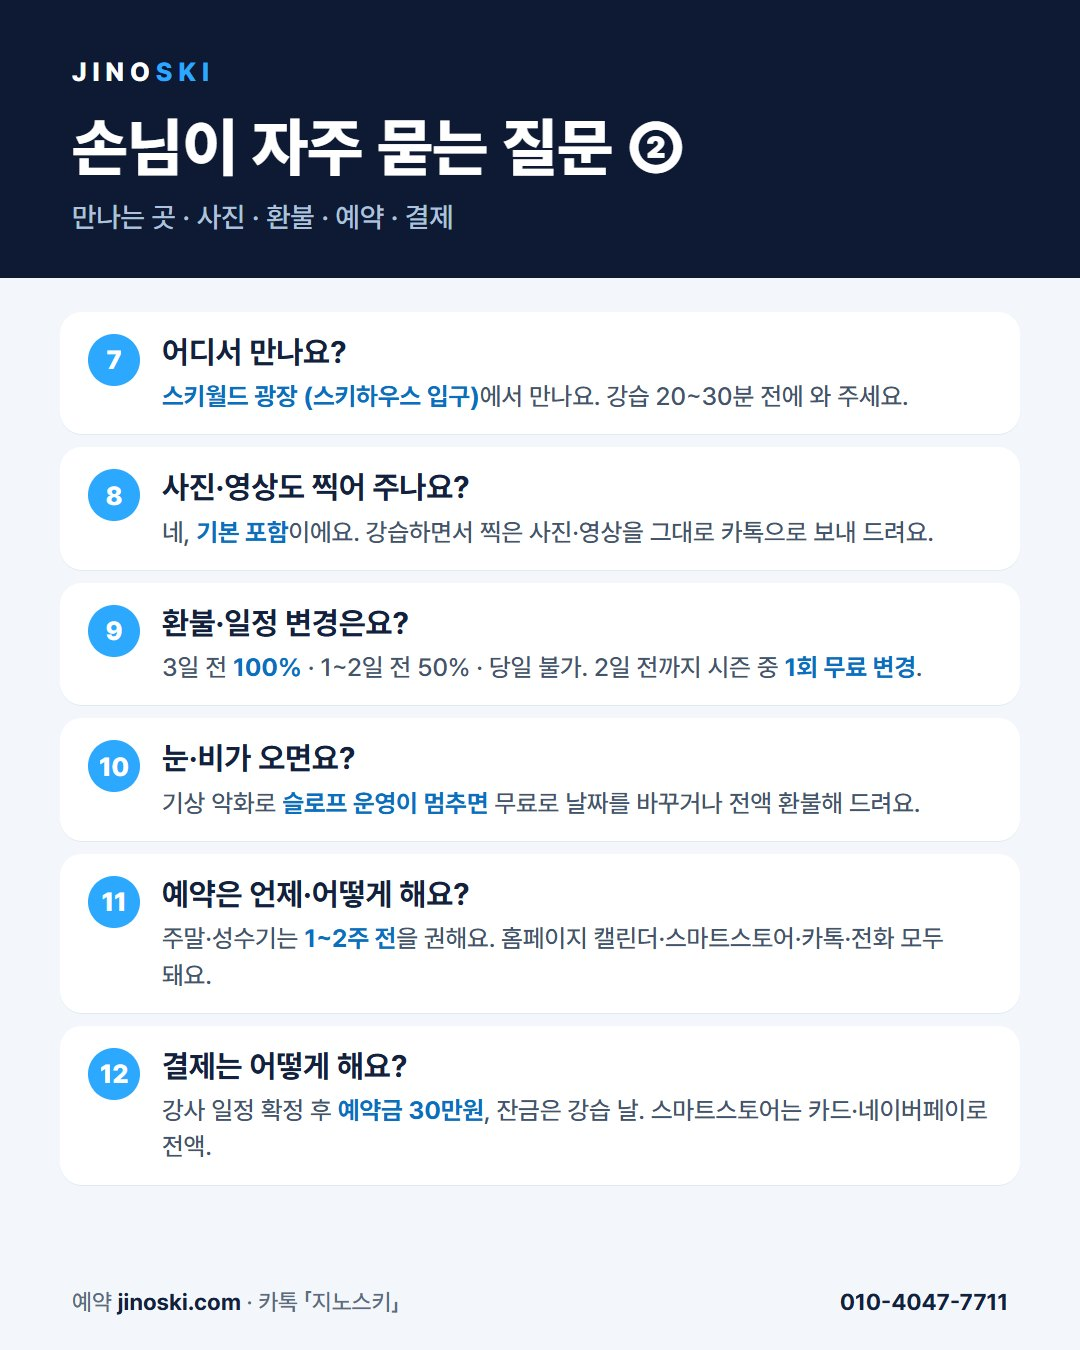
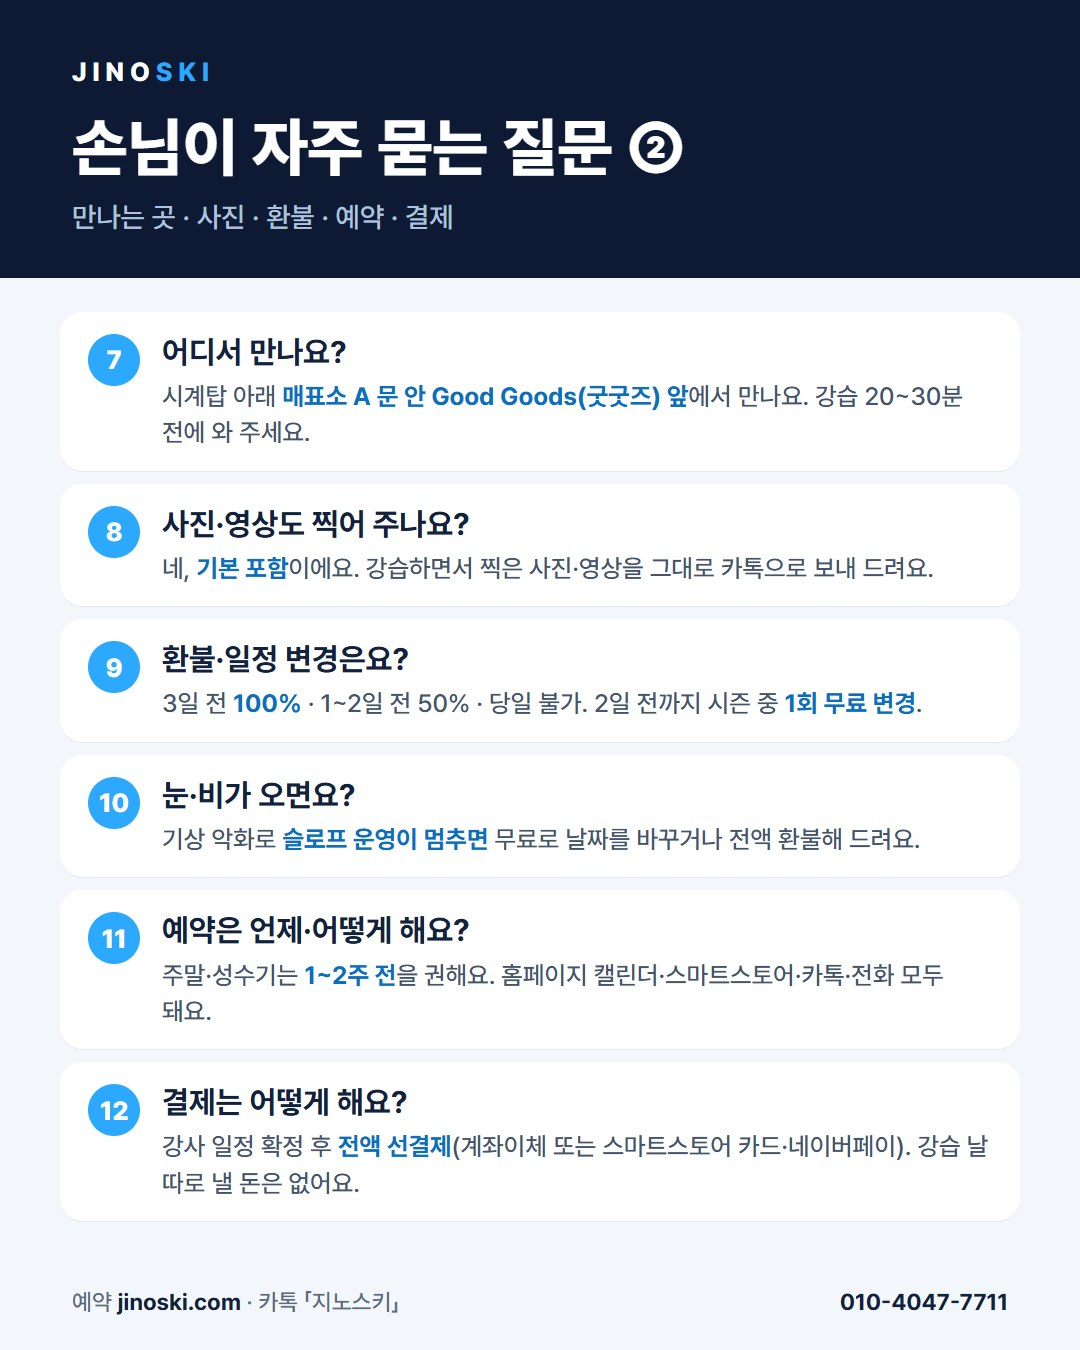
자주 묻는 질문 ② 이미지: 예약금 30만원 → 전액 선결제, 만나는 곳 Good Goods 앞

Changed region(s): [[0.0611, 0.28, 0.9167, 0.9022]]

diff --git a/src/components/shared/guide-cards.tsx b/src/components/shared/guide-cards.tsx
@@ -246,7 +246,7 @@ export const WHY_CARDS: GuideCard[] = [
 /** 자주 묻는 질문 화면 맨 위 */
 export const FAQ_CARDS: GuideCard[] = [
   { src: "/images/guide/why-1.jpg", alt: "자주 묻는 질문 1 — 처음 타도 괜찮은지, 유아는 4~7세 레슨, 2시간 1:1 14만·1:2 20만·1:3 24만원, 패찰은 비발디파크 외부강습 허가권(2시간 2.5만원), 리프트권·렌탈·식사는 별도, 장비는 현장 렌탈" },
-  { src: "/images/guide/why-2.jpg", alt: "자주 묻는 질문 2 — 스키월드 광장 스키하우스 입구에서 만남, 사진·영상 기본 포함, 환불 3일 전 100%·1~2일 전 50%·당일 불가, 기상 악화로 슬로프 운영이 멈추면 무료 변경·전액 환불, 주말은 1~2주 전 예약, 예약금 30만원·잔금 강습 날" },
+  { src: "/images/guide/why-2.jpg", alt: "자주 묻는 질문 2 — 시계탑 아래 매표소 A 문 안 Good Goods(굿굿즈) 앞에서 만남, 사진·영상 기본 포함, 환불 3일 전 100%·1~2일 전 50%·당일 불가, 기상 악화로 슬로프 운영이 멈추면 무료 변경·전액 환불, 주말은 1~2주 전 예약, 강사 일정 확정 후 전액 선결제·강습 날 따로 낼 돈 없음" },
 ];
 
 /** 요금 화면: 다른 강습과 다른 점 한 장 */
